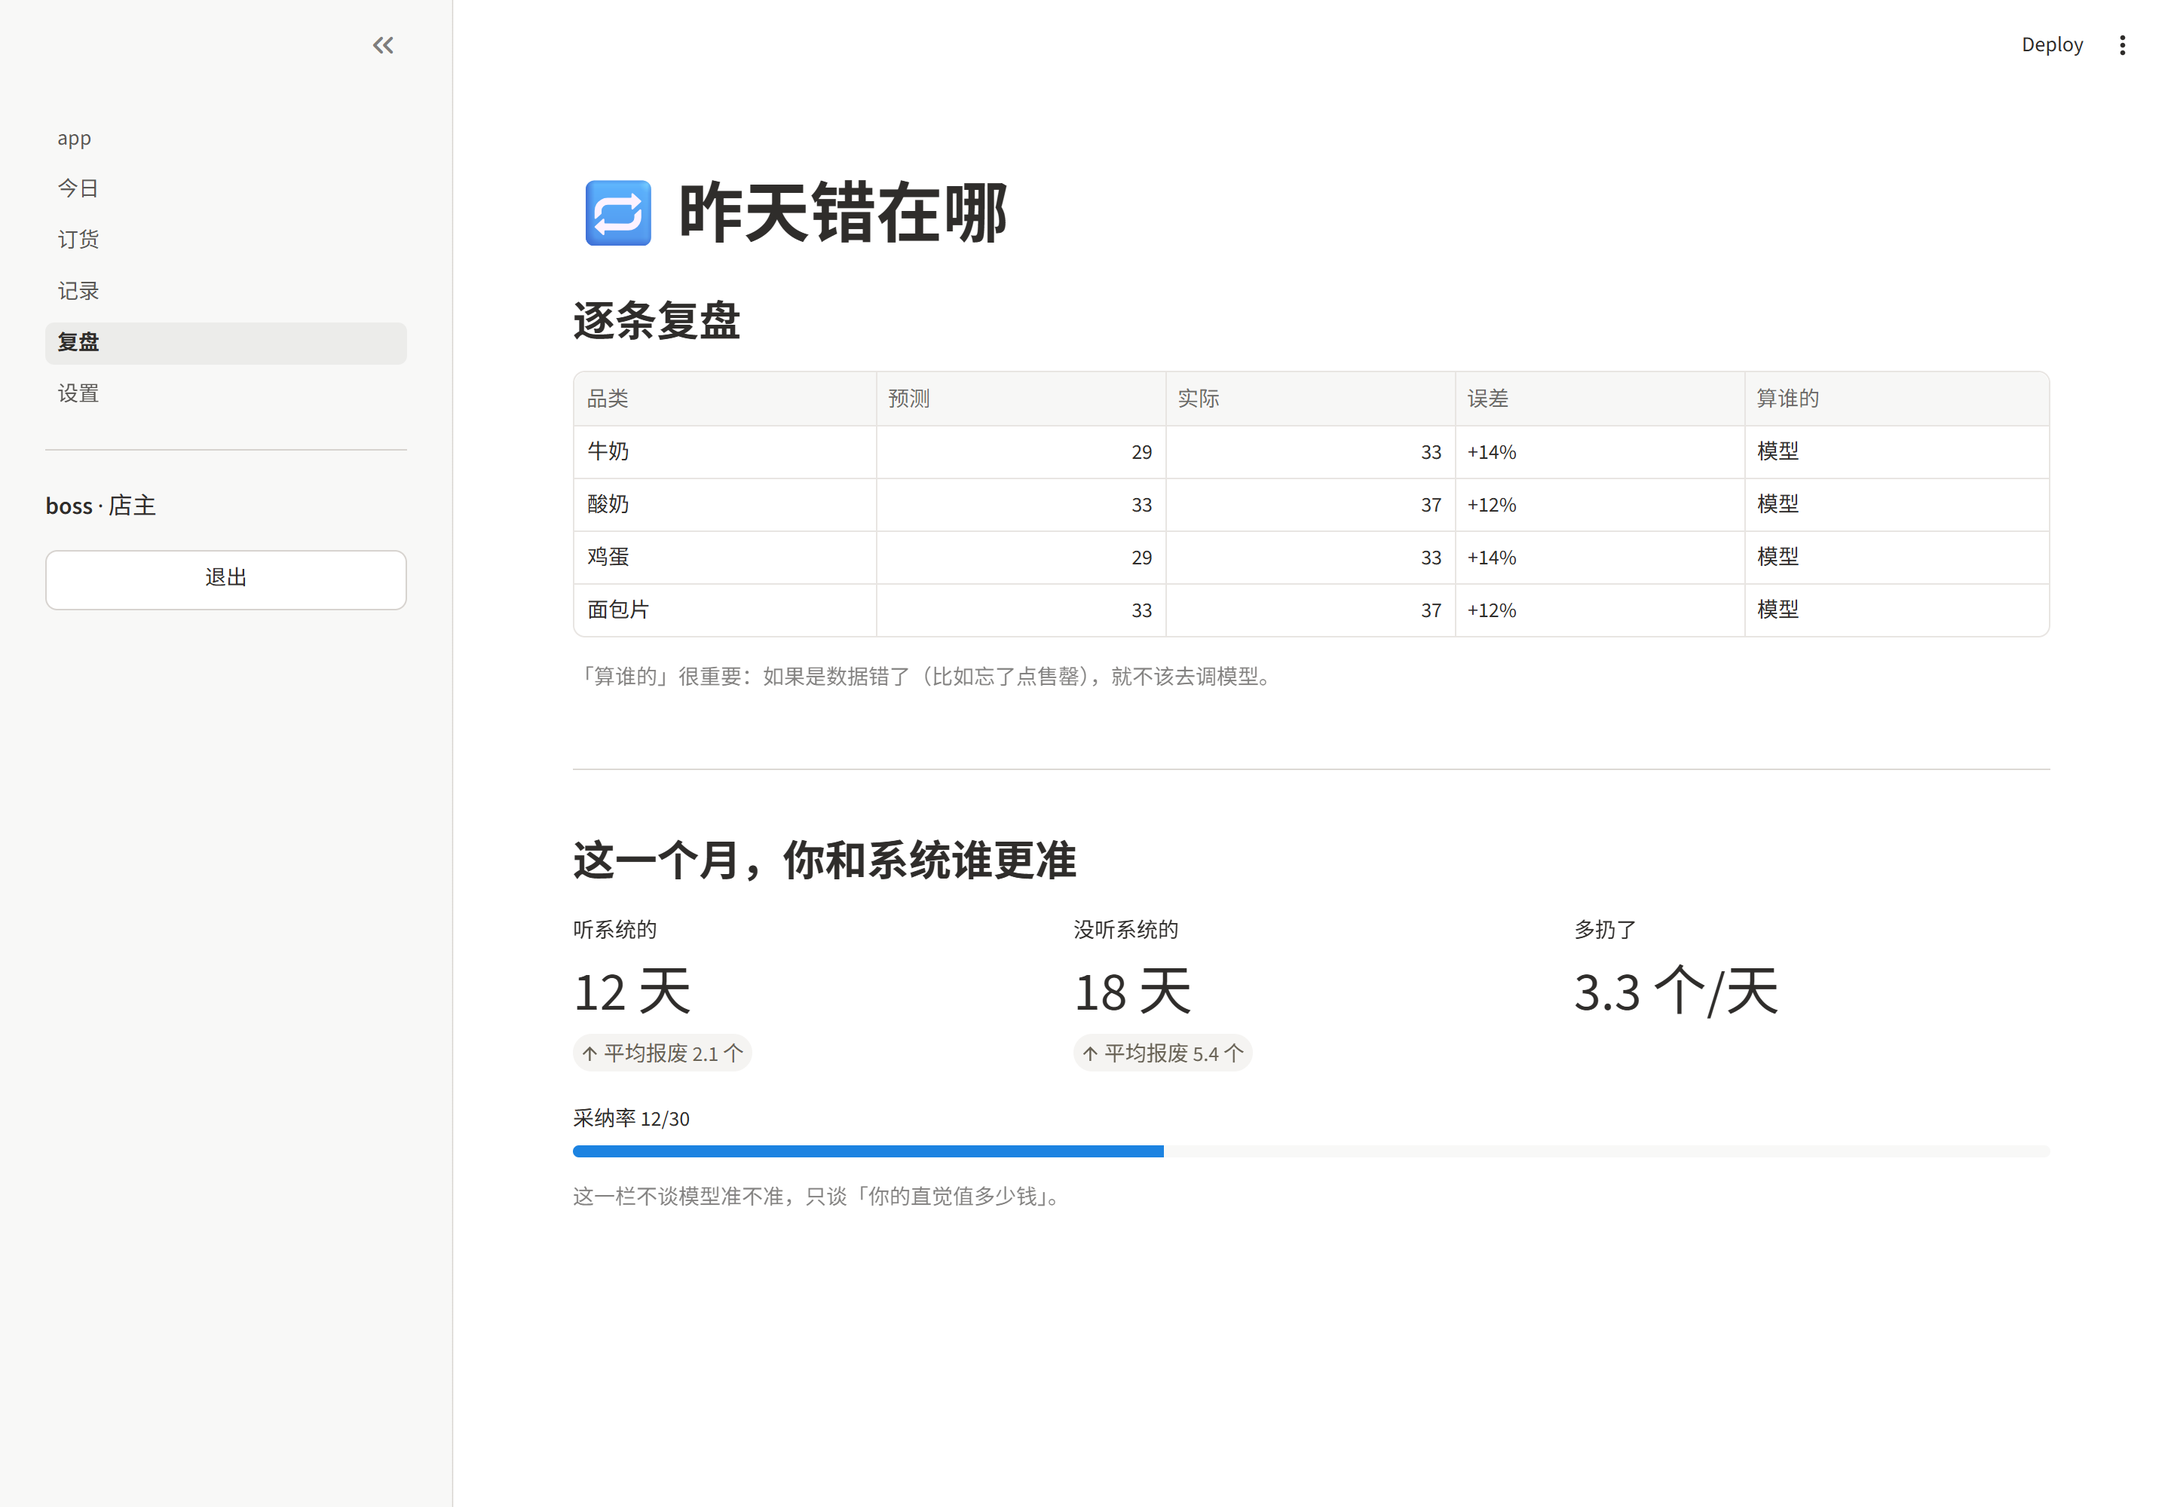
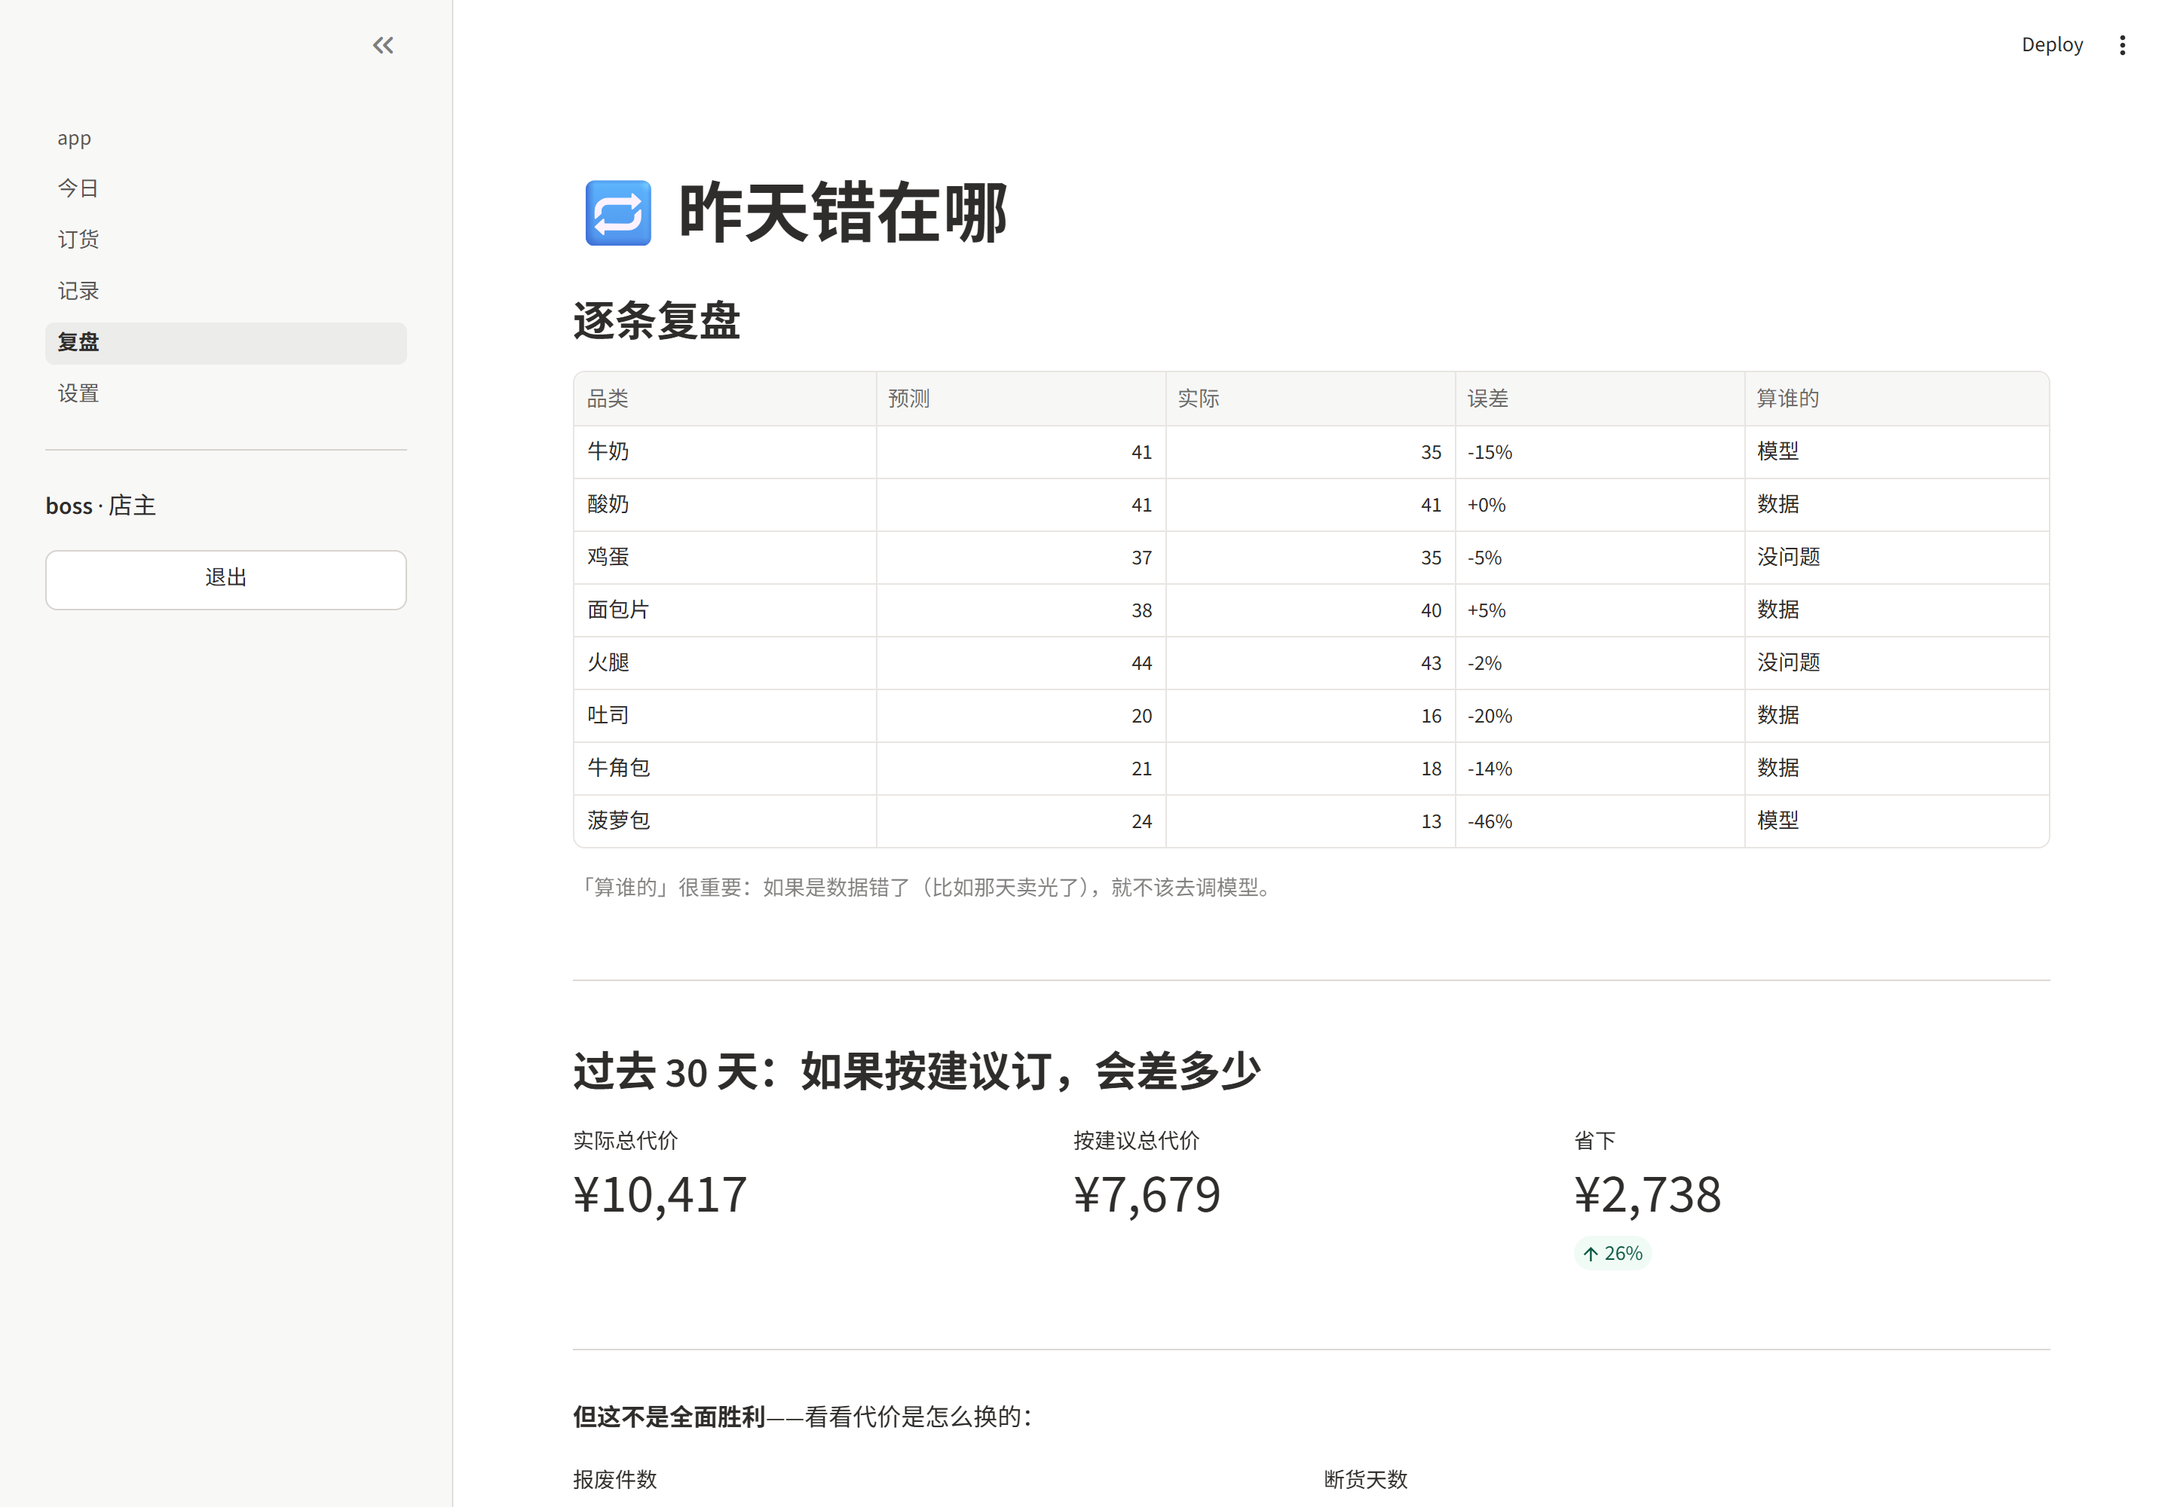
feat: 决策/到货/售罄/报损真正落库；复盘与反事实记分板接真数据

diff --git a/core/api.py b/core/api.py
@@ -13,7 +13,9 @@ from __future__ import annotations
 
 from datetime import date as _date, datetime, timedelta
 
-from . import connect, pipeline, rules
+import json
+
+from . import connect, pipeline, review, rules
 
 DEMO_TODAY = "2026-11-09"
 
@@ -100,41 +102,94 @@ def suggest(sku_id: str, day: str | None = None) -> dict:
 # ---------------------------------------------------------------- 记录
 def record_decision(sku_id: str, qty: int, reason: str | None = None,
                     day: str | None = None, user: str = "boss") -> dict:
-    """老板拍板。reason 是手改时的原因（天气/活动/经验/其他），没改可以留空。"""
+    """老板拍板。reason 是手改时的原因（天气/活动/经验/其他），没改可以留空。
+
+    落两处：decision_log 记「谁、建议多少、实际多少、为什么改」；
+    stock_move 记一张「在途」的入库单，第二天到货时转成已到货。
+    """
     day = _today(day)
+    conn = connect()
     ts = datetime.now().isoformat(timespec="seconds")
+    row = conn.execute("SELECT cost FROM sku WHERE sku_id=?", (sku_id,)).fetchone()
+    if row is None:
+        raise KeyError(f"没有这个商品: {sku_id}")
+
+    try:
+        suggested = predict(sku_id, day)["value"]
+    except Exception:
+        suggested = qty
+
+    # 同一天重复下单：覆盖上一条在途
+    conn.execute(
+        "DELETE FROM stock_move WHERE sku_id=? AND day=? AND status='在途'",
+        (sku_id, day))
+    conn.execute(
+        "INSERT INTO stock_move (sku_id, day, type, qty, unit_cost, status) "
+        "VALUES (?,?,'入库',?,?,'在途')",
+        (sku_id, day, qty, row["cost"]))
+    conn.execute(
+        "INSERT INTO decision_log (ts, username, sku_id, params_json, q_star, "
+        "adopted_qty, adopted) VALUES (?,?,?,?,?,?,?)",
+        (ts, user, sku_id,
+         json.dumps({"reason": reason or "", "target_day": day}, ensure_ascii=False),
+         suggested, qty, 0 if reason else 1))
+    conn.commit()
+
     return {"ok": True, "sku_id": sku_id, "day": day, "qty": qty,
-            "reason": reason or "", "ts": ts}
+            "reason": reason or "", "ts": ts, "suggested": suggested}
 
 
 def record_arrival(sku_id: str, qty: int, day: str | None = None) -> dict:
-    """到货登记。qty 是实收数量，跟订单不一致时由调用方传差异备注。"""
-    return {"ok": True, "sku_id": sku_id, "day": _today(day), "qty": qty}
+    """到货登记。把同一天的在途单转成已到货，数量以实收为准。"""
+    day = _today(day)
+    conn = connect()
+    row = conn.execute("SELECT cost FROM sku WHERE sku_id=?", (sku_id,)).fetchone()
+    if row is None:
+        raise KeyError(f"没有这个商品: {sku_id}")
+
+    conn.execute(
+        "DELETE FROM stock_move WHERE sku_id=? AND day=? AND status='在途'",
+        (sku_id, day))
+    conn.execute(
+        "INSERT INTO stock_move (sku_id, day, type, qty, unit_cost, status) "
+        "VALUES (?,?,'入库',?,?,'已到货')",
+        (sku_id, day, qty, row["cost"]))
+    conn.commit()
+    return {"ok": True, "sku_id": sku_id, "day": day, "qty": qty}
 
 
 def record_waste(sku_id: str, qty: int, day: str | None = None) -> dict:
-    """报损登记。qty 是报废件数（正数），内部存成负数。"""
-    return {"ok": True, "sku_id": sku_id, "day": _today(day), "qty": -abs(qty)}
+    """报损登记。qty 是报废件数（正数），存进库时转成负数。"""
+    day = _today(day)
+    conn = connect()
+    row = conn.execute("SELECT cost FROM sku WHERE sku_id=?", (sku_id,)).fetchone()
+    if row is None:
+        raise KeyError(f"没有这个商品: {sku_id}")
+
+    conn.execute(
+        "INSERT INTO stock_move (sku_id, day, type, qty, unit_cost, status) "
+        "VALUES (?,?,'报损',?,?,'已到货')",
+        (sku_id, day, -abs(qty), row["cost"]))
+    conn.commit()
+    return {"ok": True, "sku_id": sku_id, "day": day, "qty": -abs(qty)}
 
 
 def record_soldout(sku_id: str, hour: int, day: str | None = None) -> dict:
-    """卖光了，点一下。hour 用 24 小时制。"""
-    return {"ok": True, "sku_id": sku_id, "day": _today(day), "hour": hour}
+    """卖光了，点一下。hour 用 24 小时制。同一天重复点会覆盖。"""
+    day = _today(day)
+    conn = connect()
+    conn.execute("DELETE FROM stockout_mark WHERE sku_id=? AND day=?", (sku_id, day))
+    conn.execute(
+        "INSERT INTO stockout_mark (sku_id, day, start_hour, end_hour) VALUES (?,?,?,?)",
+        (sku_id, day, int(hour), 21))
+    conn.commit()
+    return {"ok": True, "sku_id": sku_id, "day": day, "hour": hour}
 
 
 # ---------------------------------------------------------------- 记分板
 def scoreboard(days: int = 30) -> dict:
-    """人和模型的对照。
-
-    返回 {"days", "follow": {"days", "waste"}, "ignore": {"days", "waste"}, "delta"}
-    delta 是「没听系统」比「听系统」每天多扔几个。
-    """
-    return {
-        "days": days,
-        "follow": {"days": 12, "waste": 2.1},
-        "ignore": {"days": 18, "waste": 5.4},
-        "delta": 3.3,
-    }
+    """反事实回放：同样的需求，按实际订货 vs 按建议订货，各亏多少钱。"""
+    return review.scoreboard(days)
 
 
 # ---------------------------------------------------------------- 复盘
@@ -143,17 +198,7 @@ def day_review(day: str | None = None) -> list[dict]:
 
     返回 [{"sku_id","name","predicted","actual","kind"}]  kind: model/data/human/none
     """
-    day = _today(day)
-    conn = connect()
-    out = []
-    for s in _skus(conn)[:4]:
-        out.append({
-            "sku_id": s["sku_id"], "name": s["name"],
-            "predicted": round(float(s["mu"])),
-            "actual": round(float(s["mu"]) * 1.12),
-            "kind": "model",
-        })
-    return out
+    return review.day_review(day)
 
 
 # ---------------------------------------------------------------- 自动下单

diff --git a/core/review.py b/core/review.py
@@ -1,0 +1,143 @@
+# -*- coding: utf-8 -*-
+"""历史复盘：昨天错在哪、过去一个月「听系统的」和「实际」差多少。
+
+两个都只用真实数据算，不造假记录：
+  day_review  —— 用当天之前的数据预测当天，跟实际比
+  scoreboard  —— 反事实回放：同样的需求，按实际订货 vs 按模型建议，报废和断货各是多少
+"""
+from __future__ import annotations
+
+import datetime as dt
+
+import pandas as pd
+
+from . import connect, pipeline
+from .rules import _last_day, _soldout_streak
+
+CLOSE_H = 21
+
+
+def _order_of(conn, sku_id: str, day: str) -> float:
+    """那天实际订了多少（已到货的入库量）。"""
+    v = conn.execute(
+        "SELECT COALESCE(SUM(qty),0) FROM stock_move "
+        "WHERE sku_id=? AND day=? AND type='入库' AND status='已到货'",
+        (sku_id, day)).fetchone()[0]
+    return float(v)
+
+
+def day_review(day: str | None = None, limit: int = 8) -> list[dict]:
+    """昨天每一件：预测多少、实际多少、算谁的错。"""
+    conn = connect()
+    last = _last_day(conn)
+    if not last:
+        return []
+    target = day or last
+    wd = dt.date.fromisoformat(target).weekday()
+
+    out = []
+    for s in conn.execute("SELECT sku_id, name FROM sku ORDER BY sku_id"):
+        df = pipeline.load_daily(conn, s["sku_id"])
+        if len(df) < 14:
+            continue
+        idx = df.index[df["day"] == target]
+        if len(idx) == 0:
+            continue
+        i = int(idx[0])
+        hist = df.iloc[:i]
+        if len(hist) < 14:
+            continue
+
+        f = pipeline.forecast(
+            pipeline.fill_demand(hist, pipeline.hourly_rate(conn, s["sku_id"])), wd)
+        actual = float(df.iloc[i]["sold"])
+        err = (actual - f["value"]) / max(f["value"], 1)
+
+        kind = "model"
+        if df.iloc[i]["soldout"]:
+            kind = "data"        # 卖光了，销量不是真实需求，错在数据
+        elif abs(err) <= 0.10:
+            kind = "none"
+        elif _soldout_streak(df.iloc[:i + 1]) >= 2 and actual > f["hi"]:
+            kind = "data"
+
+        out.append({
+            "sku_id": s["sku_id"], "name": s["name"],
+            "predicted": f["value"], "actual": round(actual),
+            "kind": kind,
+        })
+        if len(out) >= limit:
+            break
+    return out
+
+
+def scoreboard(days: int = 30) -> dict:
+    """反事实回放：同样的需求，两种订法各亏多少。
+
+    返回 {"days",
+          "actual": {"waste", "stockout_days"},  实际怎么订
+          "model":  {"waste", "stockout_days"},  按建议订
+          "delta_waste", "delta_stockout"}
+    """
+    conn = connect()
+    last = _last_day(conn)
+    empty = {"days": 0,
+             "actual": {"waste": 0, "stockout_days": 0},
+             "model": {"waste": 0, "stockout_days": 0},
+             "delta_waste": 0, "delta_stockout": 0,
+             "money_actual": 0, "money_model": 0, "money_saved": 0}
+    if not last:
+        return empty
+
+    end = dt.date.fromisoformat(last)
+    start = (end - dt.timedelta(days=days - 1)).isoformat()
+
+    aw = mw = 0.0
+    au = mu = 0.0
+    money_a = money_m = 0.0
+    ast = mst = 0
+
+    for s in conn.execute("SELECT sku_id, cost, price, salvage FROM sku ORDER BY sku_id"):
+        sid = s["sku_id"]
+        cost, price, salvage = s["cost"], s["price"], s["salvage"]
+        df = pipeline.load_daily(conn, sid)
+        if len(df) < 14:
+            continue
+        df = pipeline.fill_demand(df, pipeline.hourly_rate(conn, sid))
+
+        for i in range(len(df)):
+            d = df.iloc[i]["day"]
+            if d < start or d > last:
+                continue
+            hist = df.iloc[:i]
+            if len(hist) < 14:
+                continue
+            wd = int(df.iloc[i]["weekday"])
+            pred = pipeline.forecast(hist, wd)["value"]
+            actual_order = _order_of(conn, sid, d)
+            demand = float(df.iloc[i]["demand"])
+            if actual_order <= 0 or pred <= 0:
+                continue
+
+            cu = float(price) - float(cost)        # 断货一件少赚的
+            co = float(cost) - float(salvage)      # 报废一件净亏的
+            aw += max(0.0, actual_order - demand)
+            mw += max(0.0, pred - demand)
+            ast += 1 if demand > actual_order else 0
+            mst += 1 if demand > pred else 0
+            au += max(0.0, demand - actual_order)
+            mu += max(0.0, demand - pred)
+            money_a += max(0.0, actual_order - demand) * co + max(0.0, demand - actual_order) * cu
+            money_m += max(0.0, pred - demand) * co + max(0.0, demand - pred) * cu
+
+    n = max(1, days)
+    return {
+        "days": days,
+        "actual": {"waste": round(aw, 0), "stockout_days": ast},
+        "model": {"waste": round(mw, 0), "stockout_days": mst},
+        "delta_waste": round(aw - mw, 0),
+        "delta_stockout": ast - mst,
+        "money_actual": round(money_a, 0),
+        "money_model": round(money_m, 0),
+        "money_saved": round(money_a - money_m, 0),
+    }

diff --git a/pages/4_复盘.py b/pages/4_复盘.py
@@ -1,5 +1,5 @@
 # -*- coding: utf-8 -*-
-"""复盘：昨天错在哪，以及这一个月你和系统谁更准。"""
+"""复盘：昨天错在哪，以及过去一个月「听系统的」能省多少。"""
 import sys
 from pathlib import Path
 
@@ -11,38 +11,54 @@ import ui
 from core.api import day_review, scoreboard
 
 ui.page("复盘", "🔁")
-user = ui.guard()
+ui.guard()
 
 st.title("🔁 昨天错在哪")
 
 rows = day_review()
 if rows:
     st.subheader("逐条复盘")
+    kind_cn = {"model": "模型", "data": "数据", "human": "人为", "none": "没问题"}
     st.dataframe(
         [{"品类": r["name"],
           "预测": r["predicted"],
           "实际": r["actual"],
           "误差": f"{(r['actual']-r['predicted'])/max(r['predicted'],1)*100:+.0f}%",
-          "算谁的": {"model": "模型", "data": "数据", "human": "人为", "none": "没问题"}[r["kind"]]}
+          "算谁的": kind_cn[r["kind"]]}
          for r in rows],
         width="stretch", hide_index=True,
     )
-    st.caption("「算谁的」很重要：如果是数据错了（比如忘了点售罄），就不该去调模型。")
+    st.caption("「算谁的」很重要：如果是数据错了（比如那天卖光了），就不该去调模型。")
+else:
+    st.info("还没有可复盘的数据。")
 
 st.divider()
 
 # ---------------------------------------------------------------- 记分板
-sb = scoreboard()
-st.subheader("这一个月，你和系统谁更准")
+sb = scoreboard(30)
+st.subheader(f"过去 {sb['days']} 天：如果按建议订，会差多少")
 
-c1, c2, c3 = st.columns(3)
-c1.metric("听系统的", f"{sb['follow']['days']} 天",
-          delta=f"平均报废 {sb['follow']['waste']} 个", delta_color="off")
-c2.metric("没听系统的", f"{sb['ignore']['days']} 天",
-          delta=f"平均报废 {sb['ignore']['waste']} 个", delta_color="off")
-c3.metric("多扔了", f"{sb['delta']} 个/天")
+if sb["days"]:
+    c1, c2, c3 = st.columns(3)
+    c1.metric("实际总代价", f"¥{sb['money_actual']:,.0f}")
+    c2.metric("按建议总代价", f"¥{sb['money_model']:,.0f}")
+    c3.metric("省下", f"¥{sb['money_saved']:,.0f}",
+              delta=f"{sb['money_saved']/max(sb['money_actual'],1)*100:.0f}%",
+              delta_color="normal")
 
-st.progress(min(sb["follow"]["days"] / max(sb["follow"]["days"] + sb["ignore"]["days"], 1), 1.0),
-            text=f"采纳率 {sb['follow']['days']}/{sb['follow']['days']+sb['ignore']['days']}")
-
-st.caption("这一栏不谈模型准不准，只谈「你的直觉值多少钱」。")
+    st.markdown("---")
+    st.markdown("**但这不是全面胜利**——看看代价是怎么换的：")
+    d1, d2 = st.columns(2)
+    d1.metric("报废件数", f"{sb['model']['waste']:.0f}",
+              delta=f"{sb['model']['waste']-sb['actual']['waste']:+.0f} 件",
+              delta_color="inverse")
+    d2.metric("断货天数", f"{sb['model']['stockout_days']}",
+              delta=f"{sb['model']['stockout_days']-sb['actual']['stockout_days']:+d} 天",
+              delta_color="inverse")
+    st.caption(
+        f"按建议订会**多报 {sb['model']['waste']-sb['actual']['waste']:.0f} 件**，"
+        f"但**少断货 {sb['actual']['stockout_days']-sb['model']['stockout_days']} 天**。"
+        "报废一件亏成本，断货一件亏毛利——所以总账是省的。"
+    )
+else:
+    st.info("数据不足，攒够两周再看。")
